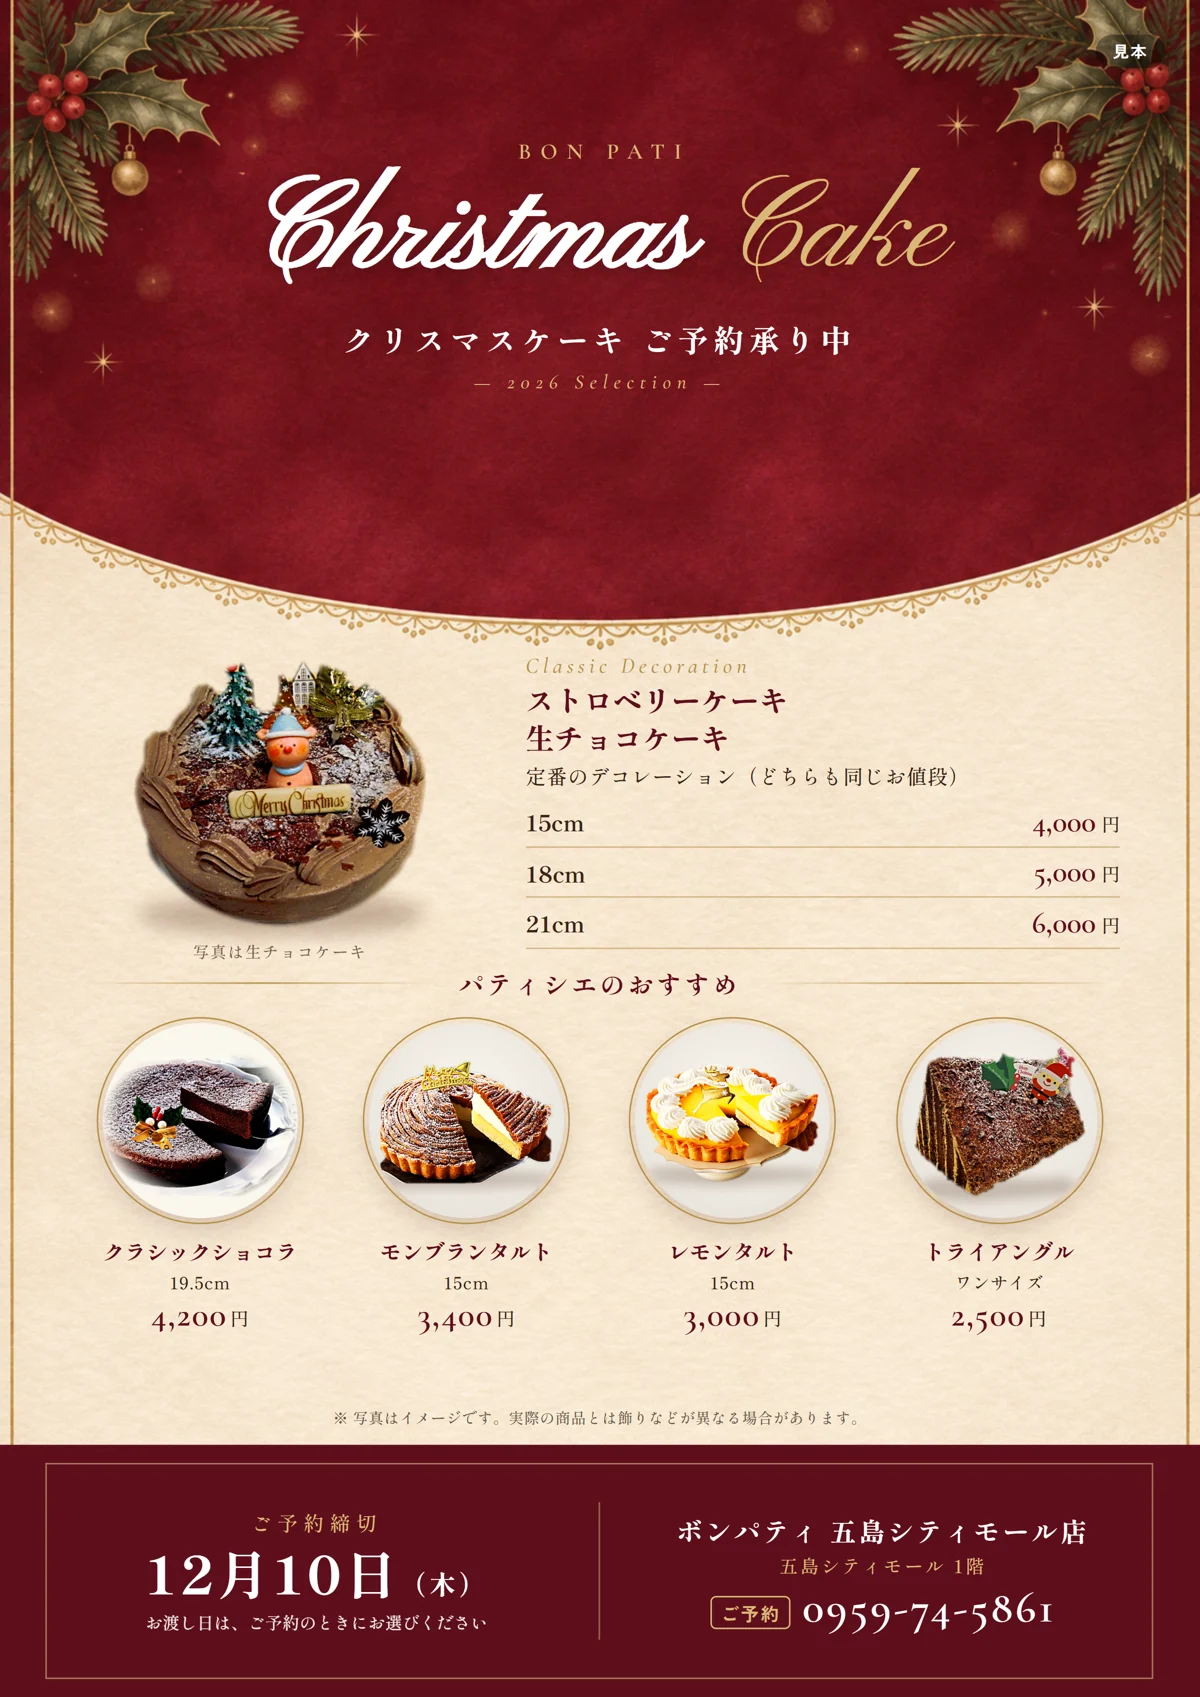
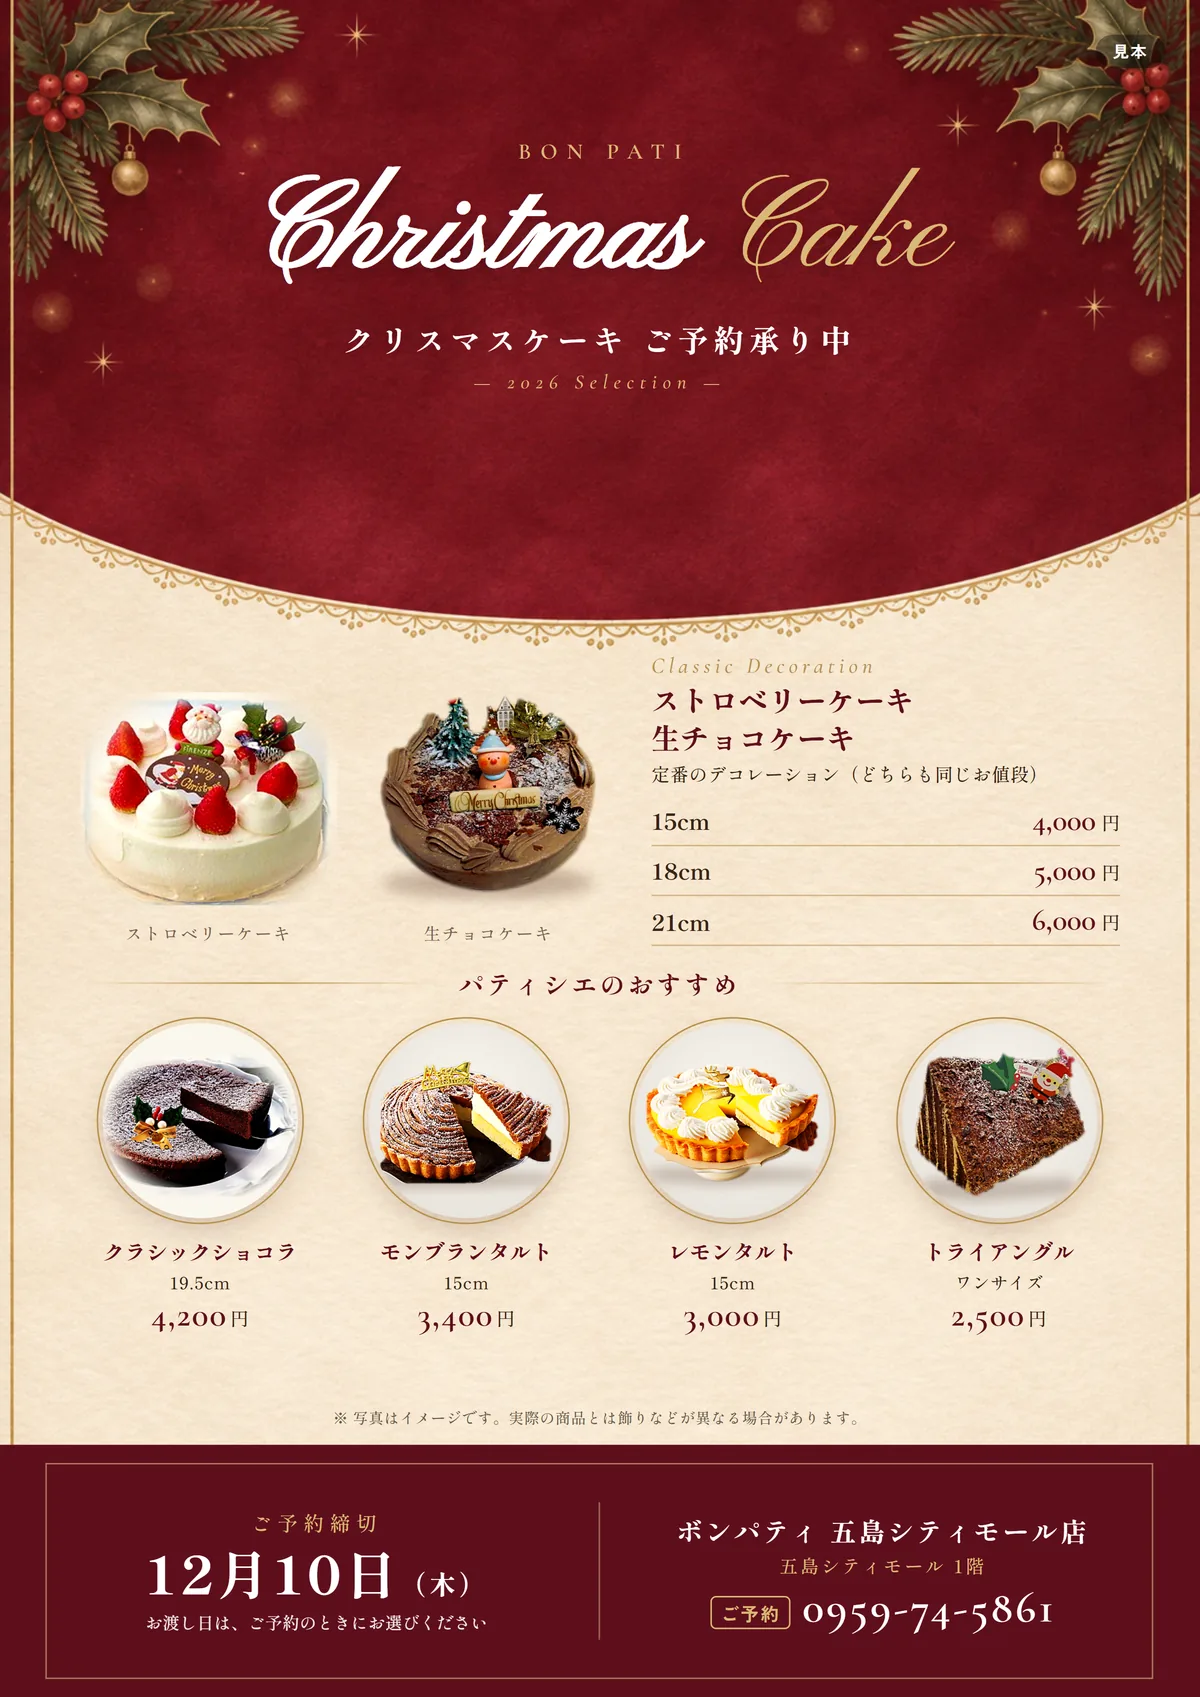
ボンパティ見本にストロベリーケーキ・手引きの画面を更新／手帳：ドメインの文を公式で確かめた事実に

Changed region(s): [[0.0617, 0.3748, 0.8017, 0.5622], [0.8633, 0.4685, 0.925, 0.5622], [0.8325, 0.4372, 0.8633, 0.4685]]

diff --git a/studio/goto-citymall-1123-jptrq/index.html b/studio/goto-citymall-1123-jptrq/index.html
@@ -659,6 +659,7 @@ main{max-width:900px;margin:0 auto;padding:16px 16px 130px}
     <li><span class="aft-st wait">HPの見本に反映・受付は契約後</span><b>チラシは8枠・期日が終わったら自動で消える・1つに表と裏の2枚</b><span class="aft-b">見本サイトの表示を直した（見本にボンパティの表と裏）。本番のホームページはまだ公開前。お店から受け付ける仕組み（御社の Apps Script に入れる物）も同じ決まりに作り替え、試験127件合格。御社への設定は契約の後</span></li>
     <li><span class="aft-st ok">済・11/24 公開</span><b>Instagram には関与しない → チラシ・ポスターの箱</b><span class="aft-b">旧「投稿の箱」を「チラシの箱」に作り替えた（月4回・10の質問・税込の総額・片面/両面・案A案B・✓）。試験143件合格。11/24 朝に代表の承認を受け、受け側（Apps Script）と画面を公開した（本番で合言葉・枠 0/4・空の申し込みを断るのを確認）</span></li>
     <li><span class="aft-st wait">たたき台・要判断</span><b>契約書のたたき台</b><span class="aft-b">Instagram の所をチラシ・ポスター（月4件・1件の定義・写真の加工）に直し、QR を11か所までと書いた。料金は今までのまま。源泉徴収は制作業務（総額200,000円）だけにかかり、運用保守にはかからない（11/24 代表決定・第16稿）</span></li>
+    <li><span class="aft-st wait">見本を直した</span><b>ボンパティ様の見本にストロベリーケーキ</b><span class="aft-b">代表の指摘。去年のチラシの写真を切り出し、色と明るさを整えて（形は変えない）、生チョコケーキと2つ並べた。HP・箱の見本・手引きの画像も差し替え</span></li>
     <li><span class="aft-st wait">用意した</span><b>手引き2つ</b><span class="aft-b">「チラシ・ポスターの箱の使い方」と「お店のチラシをホームページに載せる」。スマホで開けるページにして、LINE の2通目・3通目にアドレスを入れた</span></li>
     <li><span class="aft-st wait">用意した</span><b>LINE で聞く・伝えること</b><span class="aft-b">下の5通。押すとコピーできる。送るのは代表</span></li>
   </ul></div>
@@ -729,17 +730,17 @@ https://hinagado.github.io/studio/goto-citymall-demo/
 
 ①名前を決める
 候補：goto-citymall.jp／gotocitymall.jp／citymall-goto.jp
-goto-citymall.jp は、11月24日に登録の台帳（JPRS WHOIS）で見つかりませんでした。実際に取れるかは、申し込みの直前に確かめます。ほかのご希望の名前でも大丈夫です。
-.jp は、登録した会社名などを公開するのが原則です（申請すれば名前を隠せる場合があります。必要なら申し込みの前に確かめます）。
+3つとも、11月24日に登録の台帳（JPRS WHOIS）では見つかりませんでした（まだだれも取っていない状態です）。実際に取れるかは、申し込みの直前にもう一度確かめます。ほかのご希望の名前でも大丈夫です。
+.jp は、登録した会社名などを公開するのが原則です。隠したい時は、取る時に「Whois情報公開代行」を一緒に申し込むと無料です（会社名が出てもよければ不要です）。
 
 ②お名前.com で、御社のアカウントを作る
-御社の名義・メールアドレスで作ります。お支払いの方法には、クレジットカード・銀行振込・コンビニ払い（手数料あり）があります。実際に選べる方法は、申し込みの画面で確かめます。
+御社の名義・メールアドレスで作ります。お支払いは、クレジットカードをおすすめします。払い忘れを防ぐ「自動更新」は、クレジットカードで申し込んだ時に使えるためです（銀行振込・コンビニ払いもありますが、毎年、請求のメールを見てお支払いいただく形になります）。
 
 ③住所を取る
-料金（税込。お名前.com の公式の料金表、11月24日に確認）：取るときは、条件に合えば1円（お一人様1つまでの特別価格）です。1年ごとの更新は、今の基本の料金で3,124円で、別に「サービス維持調整費」（為替で毎月変わる割合）が加算される場合があります。
-・払い忘れると住所が止まるので、更新の方法と期限、選んだお支払い方法で「自動更新」が使えるかを確かめて、オンにします
+料金（税込。お名前.com の公式の料金表、11月24日に確認）：取るときは1円（ローマ字の .jp、お一人様1つまでの特別価格。予告なく終わる場合があります）。1年ごとの更新は、表の料金で3,124円です。ほかに「サービス維持調整費」（為替で変わる割合。ドメインは10月から25.50%）が加算される場合があります。
+・払い忘れると住所が止まるので、「自動更新」をオンにします（更新期限の15日前に自動で更新されます）
 ・サーバーなどの追加のおすすめは、付けなくて大丈夫です
-・申し込みの画面は、ひなが堂も一緒に見ます。取る時と更新の時に実際にお支払いいただく金額・払い戻しができるかを、その画面と決まりで一緒に確かめてから申し込みます
+・申し込んだあとは、どんな理由でも取り消し・払い戻しができません（お名前.com の決まり）。名前のつづりと、実際にお支払いいただく金額は、申し込みの画面をひなが堂も一緒に見て確かめてから申し込みます
 
 ④ホームページの置き場所につなぐ
 置き場所（Cloudflare）は、御社の名義のアカウントで作り、設定は画面を一緒に見ながら進めます。設定すると、つなぎ先の名前が2つ出ますので、お名前.com の「ネームサーバーの変更」→「その他のネームサーバーを使う」に、その2つを入れてください（ここも一緒に見ます）。つながるまで、最大72時間ほどかかります。
@@ -798,7 +799,7 @@ https://business.google.com/add
 表示が出ない場合は、画面の案内に沿って進めてください。すでに御社のアカウントで管理できる状態になっていることもあります。
 詳しい手順：https://support.google.com/business/answer/4566671?hl=ja
 結果は「管理できた／他のユーザーが管理と出た／分からない」のどれかでお知らせください。迷われたら、画面のスクリーンショットを送ってください。一緒に進めます。</pre></div>
-  <p class="note">ドメインの料金（1年目1円・更新 毎年3,124円 税込）と支払い方法は、お名前.com の公式ページで11/24に確認。取り消し・払い戻しの扱いは未確認のため、申し込みの画面で一緒に確かめる、と書いています［要確認］。gotocitymall.jp・citymall-goto.jp の空きは未確認（goto-citymall.jp は JPRS WHOIS で空きを確認）。</p>
+  <p class="note">ドメインの4通目は、11/24 に公式のページで確かめた事実だけで書いた（JPRS WHOIS で候補3つとも登録なし／お名前.com：取得1円の条件・更新3,124円・サービス維持調整費 25.50%（10/1〜）・申し込み後の取り消しと払い戻しは不可・自動更新はクレジットカードで申し込んだ時・Whois情報公開代行は同時申し込みで無料／Cloudflare 無料プランでネームサーバーを向ける設定ができる）。3,124円に調整費が入っているかは、公式のページから読み取れなかった。12月3日は打合せ前の日程表の日付［要確認］。</p>
 </section>
 
 <!-- 聞かれたら -->

diff --git a/studio/goto-citymall-1123-jptrq/sw.js b/studio/goto-citymall-1123-jptrq/sw.js
@@ -1,7 +1,7 @@
 /* このファイルは _offline/make_sw.mjs から生成されます。直接編集しないでください。 */
 "use strict";
 
-const CACHE_NAME = "gcm-goto-citymall-1123-jptrq-975fd58dc1a3";
+const CACHE_NAME = "gcm-goto-citymall-1123-jptrq-12d934480a82";
 const CACHE_PREFIX = "gcm-goto-citymall-1123-jptrq-";
 const FONT_CACHE = "gcm-fonts-v1";
 const PRE = [

diff --git a/studio/goto-citymall-demo/sw.js b/studio/goto-citymall-demo/sw.js
@@ -1,7 +1,7 @@
 /* このファイルは _offline/make_sw.mjs から生成されます。直接編集しないでください。 */
 "use strict";
 
-const CACHE_NAME = "gcm-goto-citymall-demo-a6372e0137d6";
+const CACHE_NAME = "gcm-goto-citymall-demo-63aa0fa15a83";
 const CACHE_PREFIX = "gcm-goto-citymall-demo-";
 const FONT_CACHE = "gcm-fonts-v1";
 const PRE = [

diff --git a/studio/goto-citymall-post/sw.js b/studio/goto-citymall-post/sw.js
@@ -1,7 +1,7 @@
 /* このファイルは _offline/make_sw.mjs から生成されます。直接編集しないでください。 */
 "use strict";
 
-const CACHE_NAME = "gcm-goto-citymall-post-271b320683e9";
+const CACHE_NAME = "gcm-goto-citymall-post-6839e555bd14";
 const CACHE_PREFIX = "gcm-goto-citymall-post-";
 const FONT_CACHE = "gcm-fonts-v1";
 const PRE = [
